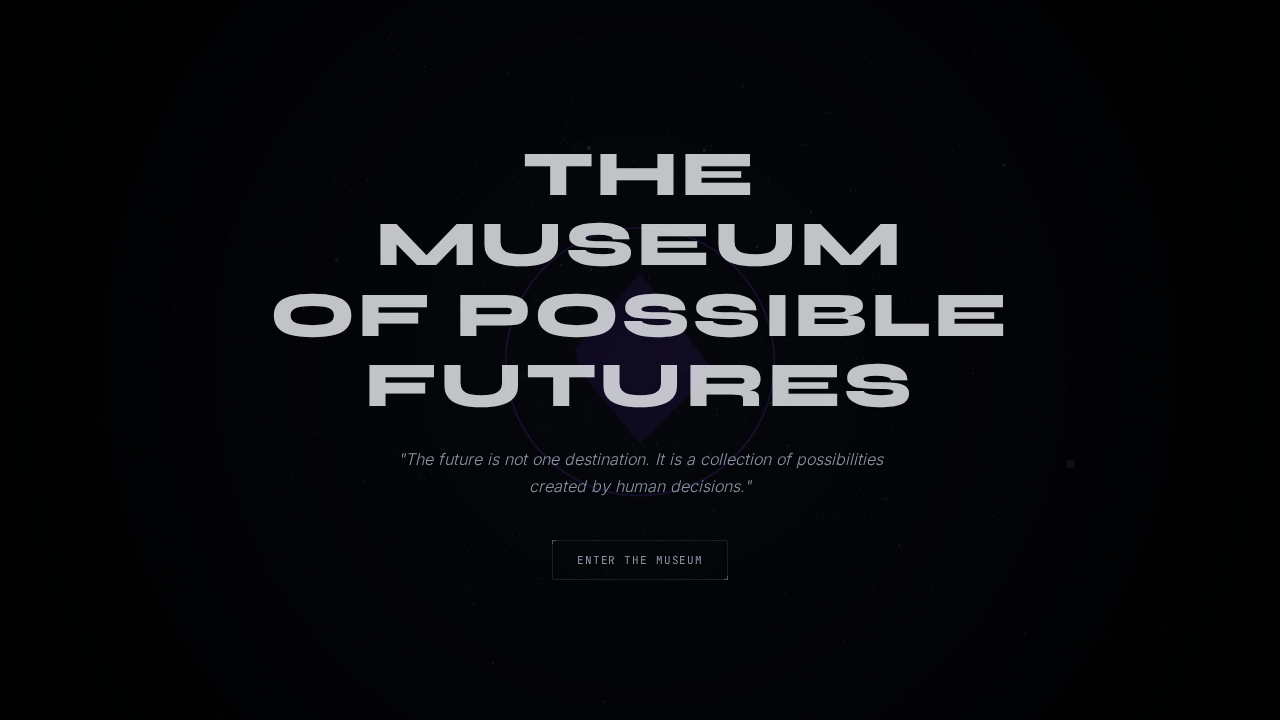
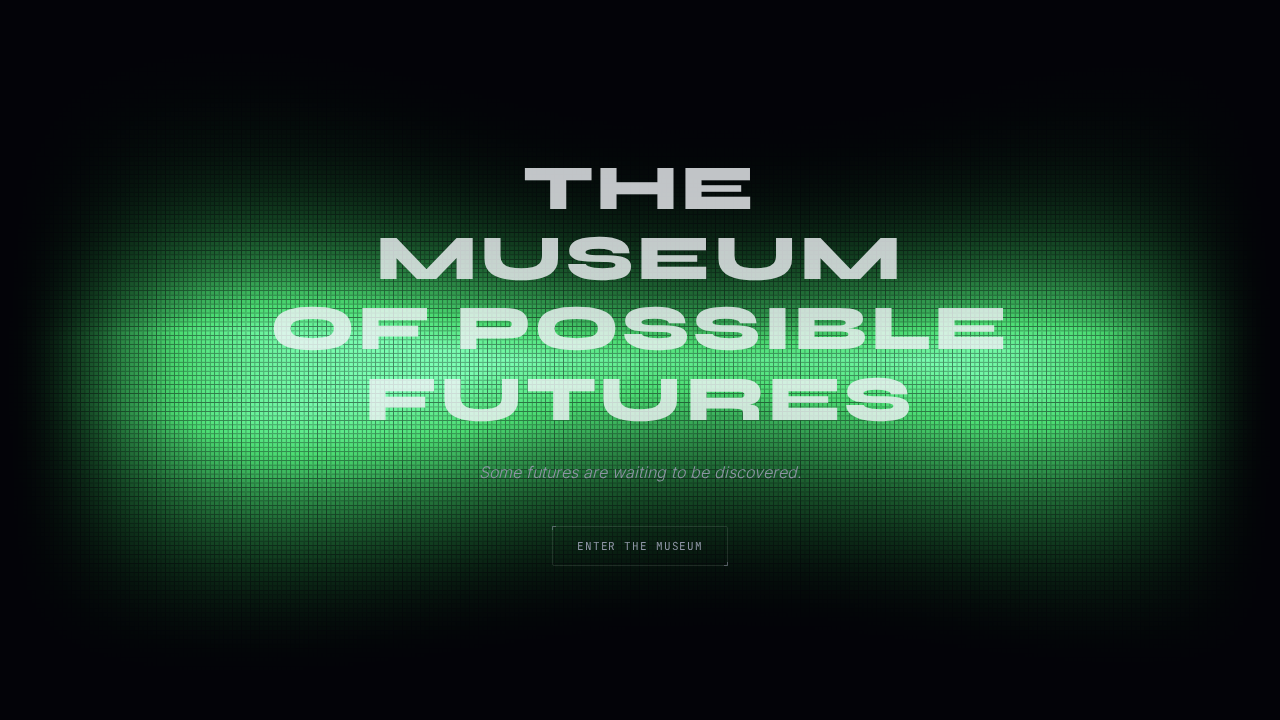
feat: add DataPixelArc component as background to entrance page

diff --git a/src/components/originkit/data-pixel-arc.tsx b/src/components/originkit/data-pixel-arc.tsx
@@ -1,0 +1,316 @@
+"use client"
+
+import * as React from "react"
+import { useEffect, useRef } from "react"
+
+const MAX_DPR = 2
+
+const VERT_SRC = `
+attribute vec2 a_pos;
+void main(){ gl_Position = vec4(a_pos, 0.0, 1.0); }
+`
+
+const FRAG_SRC = `
+#ifdef GL_FRAGMENT_PRECISION_HIGH
+precision highp float;
+#else
+precision mediump float;
+#endif
+
+uniform vec2  uRes;
+uniform float uTime, uDpr, uCell, uFill;
+uniform float uCenter, uDrop, uThick, uFall;
+uniform vec3  uBg, uBase, uAccent, uHigh;
+uniform vec2  uPointer;
+uniform float uPointerActive, uPointerStrength;
+
+void main(){
+  float cs = max(uCell, 2.0);
+  vec2 ci = floor(gl_FragCoord.xy / cs);
+  vec2 cc = (ci + 0.5) * cs;
+
+  float x = cc.x / uDpr;
+  float y = (uRes.y - cc.y) / uDpr;
+  float w = uRes.x / uDpr;
+  float h = uRes.y / uDpr;
+
+  float nx = (x / w) * 2.0 - 1.0;
+  float curveY = h * uCenter + pow(abs(nx), 1.8) * (h * uDrop);
+  float i = max(0.0, 1.0 - abs(y - curveY) / max(h * uThick, 1.0));
+
+  vec3 col = uBg;
+  if (i > 0.01) {
+    float wave1 = sin(nx * 4.0 - uTime * 1.5) * 0.1;
+    float wave2 = cos(y * 0.01 + uTime) * 0.1;
+    float pdist = distance(vec2(x, y), uPointer);
+    float pointerGlow = uPointerActive * uPointerStrength * smoothstep(240.0, 0.0, pdist) * 0.8;
+    i = clamp(i + wave1 + wave2 + pointerGlow, 0.0, 1.0);
+    i *= max(0.0, 1.0 - pow(abs(nx), uFall));
+
+    if (i > 0.02) {
+      float side = cs * uFill;
+      vec2 d = abs(gl_FragCoord.xy - cc);
+      float cov = 1.0 - smoothstep(side * 0.5 - 1.0, side * 0.5 + 1.0, max(d.x, d.y));
+
+      float core = i * i * i;
+      float mid = pow(i, 1.5);
+      vec3 ink = uBase * i * 0.35 + uAccent * mid * 0.95 + uHigh * core * 0.35;
+      col = mix(uBg, clamp(ink, 0.0, 1.0), cov * i);
+    }
+  }
+  gl_FragColor = vec4(col, 1.0);
+}
+`
+
+function compile(gl: WebGLRenderingContext, type: number, src: string): WebGLShader | null {
+    const sh = gl.createShader(type)
+    if (!sh) return null
+    gl.shaderSource(sh, src)
+    gl.compileShader(sh)
+    if (!gl.getShaderParameter(sh, gl.COMPILE_STATUS)) {
+        console.error("DataPixelArc shader:", gl.getShaderInfoLog(sh))
+        gl.deleteShader(sh)
+        return null
+    }
+    return sh
+}
+
+function parseColor(input: string | undefined, fb: [number, number, number]): [number, number, number] {
+    if (!input) return fb
+    const str = String(input).trim()
+    if (str.charAt(0) === "#") {
+        let hex = str.slice(1)
+        if (hex.length === 3 || hex.length === 4) {
+            hex = hex[0] + hex[0] + hex[1] + hex[1] + hex[2] + hex[2]
+        }
+        if (hex.length >= 6) {
+            const r = parseInt(hex.slice(0, 2), 16)
+            const g = parseInt(hex.slice(2, 4), 16)
+            const b = parseInt(hex.slice(4, 6), 16)
+            if (!isNaN(r) && !isNaN(g) && !isNaN(b)) return [r / 255, g / 255, b / 255]
+        }
+        return fb
+    }
+    const m = str.match(/[\d.]+/g)
+    if (m && m.length >= 3) {
+        return [
+            Math.min(255, parseFloat(m[0])) / 255,
+            Math.min(255, parseFloat(m[1])) / 255,
+            Math.min(255, parseFloat(m[2])) / 255,
+        ]
+    }
+    return fb
+}
+
+function num(v: unknown, fb: number): number {
+    return typeof v === "number" && isFinite(v) ? v : fb
+}
+
+function clampN(v: number, lo: number, hi: number): number {
+    return v < lo ? lo : v > hi ? hi : v
+}
+
+interface ArcGroup {
+    center?: number
+    drop?: number
+    thickness?: number
+    falloff?: number
+}
+const ARC_DEFAULTS: Required<ArcGroup> = { center: 40, drop: 90, thickness: 35, falloff: 250 }
+
+interface Props {
+    style?: React.CSSProperties
+    width?: number | string
+    height?: number | string
+    background?: string
+    baseColor?: string
+    accentColor?: string
+    highlight?: string
+    density?: number
+    dotSize?: number
+    speed?: number
+    pointerStrength?: number
+    arc?: ArcGroup
+}
+
+function __OriginkitBase_DataPixelArc(props: Props) {
+    const {
+        style,
+        background = "#030308",
+        baseColor = "#1E6438",
+        accentColor = "#22DC50",
+        highlight = "#EAFFF0",
+        density = 161,
+        dotSize = 100,
+        speed = 100,
+        pointerStrength = 34,
+        arc,
+        width,
+        height,
+    } = props
+
+    const arc_ = { ...ARC_DEFAULTS, ...(arc || {}) }
+
+    const canvasRef = useRef<HTMLCanvasElement>(null)
+    const sizeRef = useRef({ w: 0, h: 0 })
+    sizeRef.current = { w: num(width, 0), h: num(height, 0) }
+
+    const vRef = useRef<Record<string, number | string>>({})
+    vRef.current = {
+        bg: background,
+        base: baseColor,
+        accent: accentColor,
+        high: highlight,
+        density: Math.round(clampN(num(density, 100), 24, 260)),
+        dotSize: clampN(num(dotSize, 88), 20, 100) / 100,
+        speed: clampN(num(speed, 50), 0, 100) / 50,
+        pointerStrength: clampN(num(pointerStrength, 50), 0, 100) / 100,
+        center: clampN(num(arc_.center, 40), 0, 100) / 100,
+        drop: clampN(num(arc_.drop, 90), 0, 300) / 100,
+        thickness: clampN(num(arc_.thickness, 35), 2, 120) / 100,
+        falloff: clampN(num(arc_.falloff, 250), 50, 600) / 100,
+    }
+
+    useEffect(() => {
+        const canvas = canvasRef.current
+        if (!canvas) return
+        const gl = canvas.getContext("webgl", { alpha: false, antialias: false, depth: false })
+        if (!gl) {
+            console.error("DataPixelArc: WebGL unavailable")
+            return
+        }
+
+        const vs = compile(gl, gl.VERTEX_SHADER, VERT_SRC)
+        const fs = compile(gl, gl.FRAGMENT_SHADER, FRAG_SRC)
+        if (!vs || !fs) return
+        const prog = gl.createProgram()
+        if (!prog) return
+        gl.attachShader(prog, vs)
+        gl.attachShader(prog, fs)
+        gl.linkProgram(prog)
+        if (!gl.getProgramParameter(prog, gl.LINK_STATUS)) {
+            console.error("DataPixelArc link:", gl.getProgramInfoLog(prog))
+            return
+        }
+        gl.useProgram(prog)
+
+        const buf = gl.createBuffer()
+        gl.bindBuffer(gl.ARRAY_BUFFER, buf)
+        gl.bufferData(gl.ARRAY_BUFFER, new Float32Array([-1, -1, 3, -1, -1, 3]), gl.STATIC_DRAW)
+        const aPos = gl.getAttribLocation(prog, "a_pos")
+        gl.enableVertexAttribArray(aPos)
+        gl.vertexAttribPointer(aPos, 2, gl.FLOAT, false, 0, 0)
+
+        const locs: Record<string, WebGLUniformLocation | null> = {}
+        const u = (name: string) => {
+            if (!(name in locs)) locs[name] = gl.getUniformLocation(prog, name)
+            return locs[name]
+        }
+
+        const pointer = { x: 0, y: 0, tx: 0, ty: 0, active: 0, tActive: 0 }
+        const onPointerMove = (e: PointerEvent) => {
+            const rect = canvas.getBoundingClientRect()
+            pointer.tx = e.clientX - rect.left
+            pointer.ty = e.clientY - rect.top
+            pointer.tActive = 1
+        }
+        const onPointerLeave = () => {
+            pointer.tActive = 0
+        }
+        canvas.addEventListener("pointermove", onPointerMove)
+        canvas.addEventListener("pointerleave", onPointerLeave)
+
+        let raf = 0
+        let last = performance.now()
+        let clock = 0
+
+        const render = (now: number) => {
+            const dt = Math.min(0.05, (now - last) / 1000)
+            last = now
+            const v = vRef.current
+
+            clock = (clock + dt * 1.2 * (v.speed as number)) % 6283
+
+            const dpr = Math.min(window.devicePixelRatio || 1, MAX_DPR)
+            const cw = sizeRef.current.w || canvas.clientWidth || 1200
+            const ch = sizeRef.current.h || canvas.clientHeight || 800
+            const bw = Math.max(1, Math.round(cw * dpr))
+            const bh = Math.max(1, Math.round(ch * dpr))
+            if (canvas.width !== bw || canvas.height !== bh) {
+                canvas.width = bw
+                canvas.height = bh
+            }
+            gl.viewport(0, 0, bw, bh)
+
+            const pitchCss = Math.min(bw, bh) / dpr / (v.density as number)
+
+            pointer.x += (pointer.tx - pointer.x) * 0.18
+            pointer.y += (pointer.ty - pointer.y) * 0.18
+            pointer.active += (pointer.tActive - pointer.active) * 0.12
+
+            gl.uniform2f(u("uRes"), bw, bh)
+            gl.uniform1f(u("uTime"), clock)
+            gl.uniform1f(u("uDpr"), dpr)
+            gl.uniform1f(u("uCell"), Math.max(2, pitchCss * dpr))
+            gl.uniform1f(u("uFill"), v.dotSize as number)
+            gl.uniform1f(u("uCenter"), v.center as number)
+            gl.uniform1f(u("uDrop"), v.drop as number)
+            gl.uniform1f(u("uThick"), v.thickness as number)
+            gl.uniform1f(u("uFall"), v.falloff as number)
+            gl.uniform2f(u("uPointer"), pointer.x, pointer.y)
+            gl.uniform1f(u("uPointerActive"), pointer.active)
+            gl.uniform1f(u("uPointerStrength"), v.pointerStrength as number)
+            const cg = parseColor(v.bg as string, [0.012, 0.012, 0.031])
+            const cb = parseColor(v.base as string, [0.118, 0.392, 0.22])
+            const ca = parseColor(v.accent as string, [0.133, 0.863, 0.314])
+            const chh = parseColor(v.high as string, [0.918, 1.0, 0.941])
+            gl.uniform3f(u("uBg"), cg[0], cg[1], cg[2])
+            gl.uniform3f(u("uBase"), cb[0], cb[1], cb[2])
+            gl.uniform3f(u("uAccent"), ca[0], ca[1], ca[2])
+            gl.uniform3f(u("uHigh"), chh[0], chh[1], chh[2])
+
+            gl.drawArrays(gl.TRIANGLES, 0, 3)
+            raf = requestAnimationFrame(render)
+        }
+
+        raf = requestAnimationFrame(render)
+
+        return () => {
+            cancelAnimationFrame(raf)
+            canvas.removeEventListener("pointermove", onPointerMove)
+            canvas.removeEventListener("pointerleave", onPointerLeave)
+        }
+    }, [])
+
+    return (
+        <div
+            style={{
+                position: "absolute",
+                overflow: "hidden",
+                background,
+                inset: 0,
+                width: typeof width === "number" && width > 0 ? width : "100%",
+                height: typeof height === "number" && height > 0 ? height : "100%",
+                ...style,
+            }}
+        >
+            <canvas
+                ref={canvasRef}
+                style={{ position: "absolute", inset: 0, width: "100%", height: "100%", display: "block" }}
+            />
+        </div>
+    )
+}
+
+const __originkitPresetProps = {
+  "arc": {
+    "drop": 0,
+    "center": 50,
+    "falloff": 600,
+    "thickness": 44
+  }
+};
+
+export function DataPixelArc(props: Record<string, unknown>) {
+  return <__OriginkitBase_DataPixelArc {...(__originkitPresetProps as Record<string, unknown>)} {...props} />;
+}

diff --git a/src/features/entrance/VoidEntranceOverlay.tsx b/src/features/entrance/VoidEntranceOverlay.tsx
@@ -6,6 +6,7 @@ import React from 'react';
 import { useMuseumStore } from '@/engine/useMuseumStore';
 import { MuseumButton } from '@/components/common/MuseumButton';
 import { synth } from '@/engine/useAudioEngine';
+import { DataPixelArc } from '@/components/originkit/data-pixel-arc';
 import './entrance.css';
 
 export const VoidEntranceOverlay: React.FC = () => {
@@ -30,6 +31,7 @@ export const VoidEntranceOverlay: React.FC = () => {
 
   return (
     <div className="void-entrance-overlay">
+      <DataPixelArc style={{ position: "absolute", inset: 0, zIndex: -1, minWidth: 0, minHeight: 0 }} />
       <div className="entrance-content">
         <h1 className="entrance-title">
           <span className="title-line">THE MUSEUM</span>
